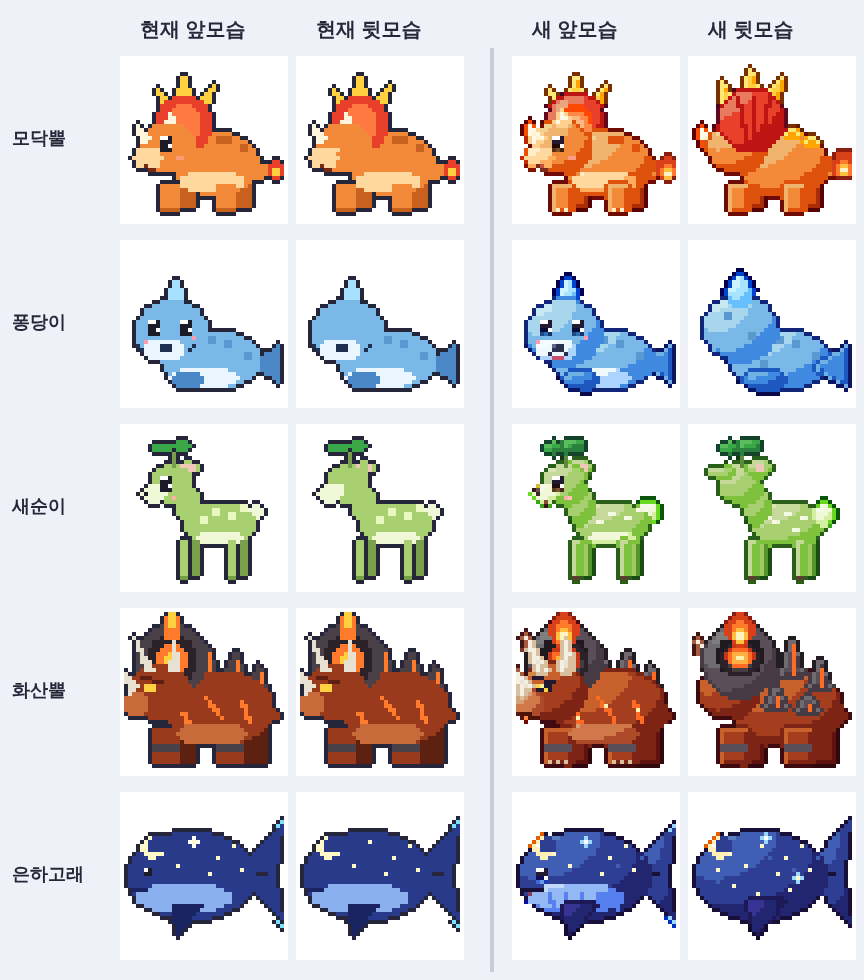
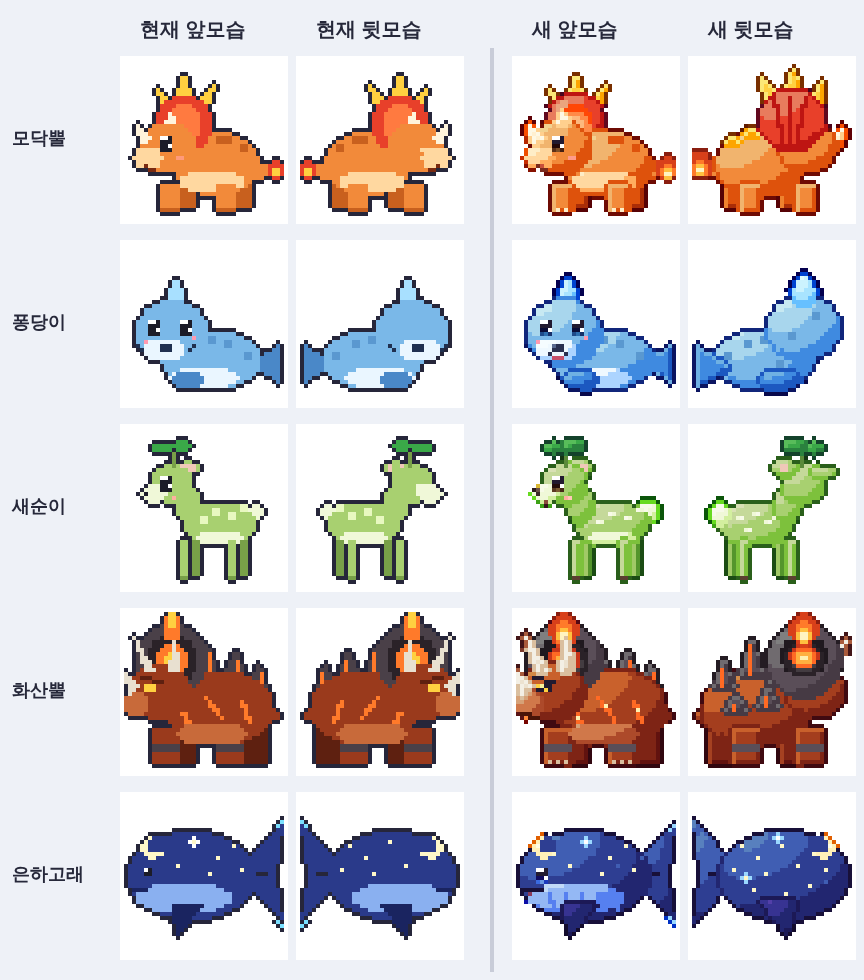
Art v2 samples: back views face right, toward the enemy
Back sprites are drawn with mirrored light and flipped, so they face the enemy while
keeping the top-left light; the battle draws them without flipping.

Claude-Session: https://claude.ai/code/session_011m1KgjB2w6DARo69TK8hVK

diff --git a/src/game/monsprites2.ts b/src/game/monsprites2.ts
@@ -68,8 +68,10 @@ const fixed = (o: string, d: string, b: string, l: string, h: string): Ramp => (
 const FIRE = fixed('#8a1e10', '#d8401a', '#ff7a2a', '#ffc040', '#fff4c0');
 const LAVA = fixed('#5a1a0e', '#c8361a', '#ff6a24', '#ffb040', '#fff0b0');
 
-// Light: top-left and toward the viewer.
+// Light: top-left and toward the viewer. Back views are drawn mirrored and then flipped
+// to face right (toward the enemy), so their light is mirrored while drawing.
 const LX = -0.55, LY = -0.62, LZ = 0.56;
+let mirrored = false;
 
 type Shade = { kind: 'sphere'; cx: number; cy: number; rx: number; ry: number; spec?: boolean } | { kind: 'bevel' } | { kind: 'glow'; cx: number; cy: number; rx: number; ry: number } | { kind: 'flat' };
 
@@ -103,12 +105,13 @@ export function part(p: Pix, r: Ramp, shape: (m: Pix) => void, shade: Shade = { 
         c = k > 0.72 ? r.h : k > 0.45 ? r.l : k > 0.18 ? r.b : r.d;
       } else {
         const nz = Math.sqrt(1 - d2);
-        const dot = LX * dx + LY * dy + LZ * nz;
+        const dot = (mirrored ? -LX : LX) * dx + LY * dy + LZ * nz;
         c = dot > 0.965 && shade.spec !== false ? r.h : dot > 0.6 ? r.l : dot > -0.12 ? r.b : r.d;
       }
     } else if (shade.kind === 'bevel') {
-      if (!inM(x - 1, y) || !inM(x, y - 1)) c = r.l;
-      else if (!inM(x + 1, y) || !inM(x, y + 1)) c = r.d;
+      const sx = mirrored ? -1 : 1;
+      if (!inM(x - sx, y) || !inM(x, y - 1)) c = r.l;
+      else if (!inM(x + sx, y) || !inM(x, y + 1)) c = r.d;
     }
     p.set(x, y, c);
   }
@@ -160,6 +163,15 @@ const mk = (draw: (p: Pix) => void) => () => {
   seal(p);
   return p;
 };
+/** Back view: drawn in the same left-facing layout, returned facing right (toward the enemy). */
+const mkBack = (draw: (p: Pix) => void) => () => {
+  mirrored = true;
+  try {
+    return mk(draw)().flipped();
+  } finally {
+    mirrored = false;
+  }
+};
 
 // ---------------------------------------------------------------------------
 
@@ -169,6 +181,7 @@ const SAESUN = { body: ramp('#a8d070'), belly: ramp('#f0f8d8'), leaf: ramp('#3aa
 const HWASAN = { body: ramp('#a43e1e'), rock: ramp('#5a4e58'), belly: ramp('#d0784a'), horn: ramp('#ece2d0') };
 const EUNHA = { body: ramp('#2e3e92'), belly: ramp('#94b8f4'), star: '#fff8c8', glowC: '#9ad8ff', moon: ramp('#fff0b8') };
 
+/** front faces left (toward the player); back faces right (toward the enemy). */
 export const MON_V2: Record<string, { front: () => Pix; back: () => Pix }> = {
   modak: {
     front: mk((p) => {
@@ -193,7 +206,7 @@ export const MON_V2: Record<string, { front: () => Pix; back: () => Pix }> = {
       p.set(5, 26, '#7a2a1c'); p.set(6, 27, '#7a2a1c'); p.set(7, 27, '#7a2a1c'); p.set(6, 26, '#c8503a');
       p.set(13, 24, '#ff9a8a'); p.set(14, 24, '#ff9a8a');
     }),
-    back: mk((p) => {
+    back: mkBack((p) => {
       const { body, frill, frillIn, spike, horn } = MODAK;
       part(p, ramp(body.d), (m) => { m.rect(14, 31, 4, 6, 'x'); m.rect(28, 31, 4, 6, 'x'); });
       part(p, body, (m) => m.tri(28, 23, 39, 27, 28, 32, 'x'), sph(32, 26, 8, 5));
@@ -227,7 +240,7 @@ export const MON_V2: Record<string, { front: () => Pix; back: () => Pix }> = {
       for (const [x, y] of [[4, 26], [3, 25], [16, 26], [17, 25]] as const) p.set(x, y, body.d);
       p.set(5, 24, '#ff9ab0'); p.set(17, 23, '#ff9ab0');
     }),
-    back: mk((p) => {
+    back: mkBack((p) => {
       const { body, drop, spot } = PONG;
       part(p, body, (m) => m.ell(22, 29, 12.5, 7.5, 'x'), sph(22, 27, 12.5, 8));
       for (const [x, y, rx, ry] of [[26, 25, 1.6, 1], [31, 28, 1.3, 1], [22, 24, 1.3, 0.8], [18, 30, 1.2, 0.8]] as const) p.ell(x, y, rx, ry, spot);
@@ -263,7 +276,7 @@ export const MON_V2: Record<string, { front: () => Pix; back: () => Pix }> = {
       p.set(7, 18, '#8a4a3a');
       p.set(12, 17, '#ffb0a0'); p.set(13, 17, '#ffc8b8');
     }),
-    back: mk((p) => {
+    back: mkBack((p) => {
       const { body, belly, leaf, ear } = SAESUN;
       part(p, ramp(body.d), (m) => { m.rect(17, 28, 2, 9, 'x'); m.rect(29, 28, 2, 9, 'x'); });
       part(p, body, (m) => m.ell(24, 24, 9.5, 5.5, 'x'), sph(24, 23, 9.5, 6));
@@ -307,7 +320,7 @@ export const MON_V2: Record<string, { front: () => Pix; back: () => Pix }> = {
       fierceEye(p, 5, 18, '#ffd040');
       p.line(1, 25, 5, 26, '#4a1408'); p.set(2, 26, '#ff8a3a');
     }),
-    back: mk((p) => {
+    back: mkBack((p) => {
       const { body, rock, horn } = HWASAN;
       part(p, ramp(body.d), (m) => { m.rect(12, 29, 6, 9, 'x'); m.rect(30, 29, 6, 9, 'x'); });
       part(p, body, (m) => m.tri(30, 19, 40, 26, 30, 32, 'x'), sph(33, 24, 8, 6));
@@ -344,7 +357,7 @@ export const MON_V2: Record<string, { front: () => Pix; back: () => Pix }> = {
       eye(p, 5, 18, '#3a6ae0');
       p.line(2, 23, 6, 23, body.o); p.set(3, 24, '#8a3a5a');
     }),
-    back: mk((p) => {
+    back: mkBack((p) => {
       const { body, star, glowC, moon } = EUNHA;
       part(p, body, (m) => { m.tri(29, 18, 40, 5, 38, 20, 'x'); m.tri(29, 20, 38, 20, 40, 33, 'x'); }, sph(34, 19, 8, 12));
       part(p, body, (m) => m.ell(17, 20, 16, 11, 'x'), sph(16, 18, 16, 11));

diff --git a/src/game/battle.ts b/src/game/battle.ts
@@ -140,7 +140,7 @@ class BattleScene implements Scene {
     if (v.player && v.pVis && !v.pBlink) {
       g.globalAlpha = v.pAlpha;
       // v2 samples are drawn at a whole 3× scale so every pixel is the same size
-      if (ART_V2 && MON_V2[v.player.species]) drawSprite(g, monBackSprite(v.player.species), 6 + v.pX, 54 + v.pY, 120, 120, true);
+      if (ART_V2 && MON_V2[v.player.species]) drawSprite(g, monBackSprite(v.player.species), 6 + v.pX, 54 + v.pY, 120, 120);
       else drawSprite(g, monBackSprite(v.player.species), -2 + v.pX, 38 + v.pY, 136, 136, true);
       g.globalAlpha = 1;
     }

diff --git a/docs/ART_STYLE.md b/docs/ART_STYLE.md
@@ -86,6 +86,7 @@
 ### 2.6 뒷모습
 - 앞모습에서 얼굴을 지우는 대신 **진짜 뒷모습을 따로 그려요.** 등에 있는 특징(모닥뿔 프릴 뒷면, 화산뿔 등판 바위, 은하고래 등의 별, 퐁당이 등 무늬)을 크게 보여 줘요.
 - 실루엣과 색은 앞모습과 같아서 같은 몬스터로 바로 알아볼 수 있어요.
+- **뒷모습은 오른쪽(적이 있는 쪽)을 바라봐요.** 앞모습은 왼쪽(내 몬스터 쪽)을 봐요. 뒷모습은 같은 왼쪽 배치로 그리되 빛을 거울처럼 뒤집어 칠한 뒤 좌우 반전해서, 오른쪽을 봐도 빛은 그대로 왼쪽 위에서 와요. 비교 시트의 현재 뒷모습도 배틀에 표시되는 방향(오른쪽)으로 보여 줘요.
 
 ### 2.7 크기: 40×40 유지 vs 56×56 확대
 
